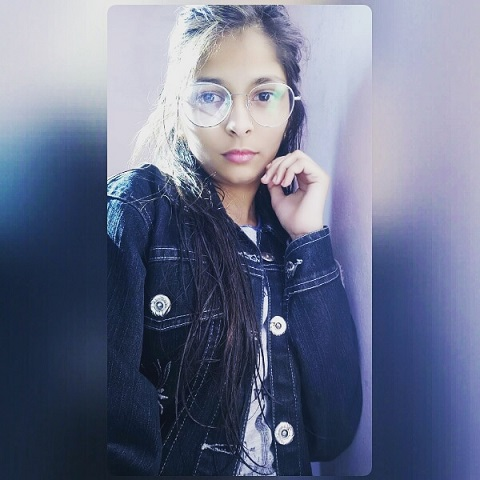
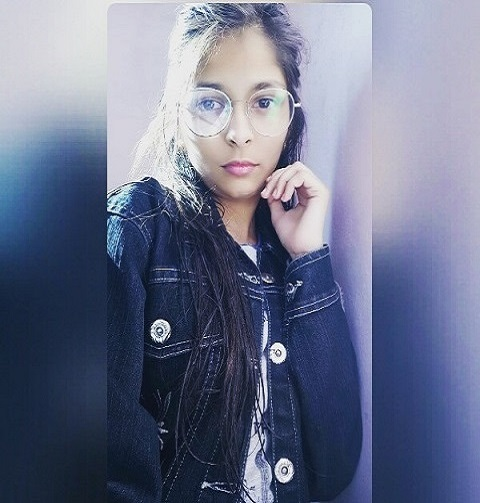
completed first page

diff --git a/my-portfolio/src/components/Hero.js b/my-portfolio/src/components/Hero.js
@@ -4,13 +4,22 @@ import ayu1 from './hero1.jpeg';
 import ayu2 from './hero2.jpg'
 
 const Hero = () => {
-  let app = useRef(null);
-  let images = useRef(null);
-  let tl = new TimelineLite()
+  let app = useRef(null)
+  let images = useRef(null)
+  let content = useRef(null)
+  let tl = new TimelineLite({ delay: .8});
 
   useEffect(() => {
     const img1 = images.firstElementChild;
     const img2 = images.lastElementChild;
+    
+
+    const headlinef = content.children[0].children[0];
+    const headlines = headlinef.nextSibling;
+    // const headlinet = headlines.nextSibling;
+    const contentp = content.children[1];
+    const contentb = content.children[2];
+    // const contentp = content.children[1];
 
 
 
@@ -19,13 +28,24 @@ const Hero = () => {
     // console.log(app);
     // console.log(ayu1,ayu2);
 
-    tl.from(img1, 1.2, {y: 1280, ease: Power3.easeOut})
+    tl.from(img1, 1.2, {y: 1280, ease: Power3.easeOut}, 'Start')
     .from(img1.firstElementChild, 2, {scale: 1.6, ease: Power3.easeOut}, .2)
-    .from(img2, 1.2, {y: 1280, ease: Power3.easeOut}, .2)
+    .from(img2, 1.4, {y: 1280, ease: Power3.easeOut}, .2)
     .from(img2.firstElementChild, 2, {scale: 1.6, ease: Power3.easeOut}, .2)
+
+    //content
+
+    tl.staggerFrom([headlinef.children, headlines.children], 1, {
+      y: 44,
+      ease: Power3.easeOut,
+      delay: .8,
+    }, .15, 'Start')
+
+    .from(contentp, 1, {y: 20, opacity: 0, ease: Power3.easeOut}, 1.4)
+    .from(contentb, 1, {y:20, opacity: 0, ease: Power3.easeOut}, 1.6)
    
 
-  })
+  }, [tl])
     return (
         <div>
             <div className="hero" ref={el => app = el}>
@@ -33,7 +53,7 @@ const Hero = () => {
      <div className="container">
        <div className="hero-inner">
          <div className="hero-content">
-           <div className="hero-content-inner">
+           <div className="hero-content-inner" ref={el => content = el}>
              <h1>
                <div className="hero-content-line">
                  <div className="hero-content-line-inner">
@@ -45,10 +65,6 @@ const Hero = () => {
                  <div className="hero-content-line-inner-2">
                     Web Developer
                  </div>
-
-               
-               
-
                </div>
              </h1>
              <p>
@@ -66,7 +82,7 @@ with Webflow.            </p>
 
          </div>
          <div className="hero-images">
-          <div className="hero-images-inner" ref={el => images = el}>
+          <div ref={el => images = el} className="hero-images-inner">
             
             <div className="hero-image ayu1">
               <img src={ayu1}></img>

diff --git a/my-portfolio/src/App.scss b/my-portfolio/src/App.scss
@@ -9,6 +9,7 @@
     box-sizing: border-box;
     font-family: 'Pacifico', sans-serif;
     font-weight: 300;
+    // background-color: #e9e5e5;
 
 }
 .hero {
@@ -30,8 +31,12 @@
         height: 100vh;
         .hero-content{
             width: 50%;
+            
             .hero-content-inner{
+                
                 width: 480px;
+                
+
                 margin: 0 auto;
                 color: #323232;
                 .h1{
@@ -50,11 +55,12 @@
                     height: 44px;
                     font-size: 22px;
                     font-weight: 200;
-                    // overflow: hidden;
+                    overflow: hidden;
                     margin-bottom: 24px;
                     // margin-left: 10px;
                 }
                 p{
+                    margin-top: 50px;
                     font-size: 14px;
                     line-height: 24px;
                     font-weight: 300;
@@ -74,7 +80,7 @@
                         left: -50px;
                     }
                     .button{
-                        height: 32px;
+                        height: 36px;
                         background: none;
                         border: none;
                         font-size: 17px;
@@ -102,6 +108,7 @@
                         background:linear-gradient(#e7e5e5,#909090);
                         border: none;
                         font-size: 17px;
+                        transition: height 2s, transform 2s;
                         padding: 2px 7px;
                         cursor: pointer;
                         font-style:oblique;
@@ -145,6 +152,8 @@
                                     margin-top: 50px;
                                     border: 1px solid white;
                                     // border-radius: 10%;
+                                    border-radius: 10%;
+                        box-shadow: 8px 8px 8px rgb(87, 85, 85);
                     }
                     &.ayu2{
                                     bottom: 24px;
@@ -154,6 +163,8 @@
                                     width: 40%;
                                     height: 55%;
                                     margin-left: -100px;
+                                    border-radius: 10%;
+                        box-shadow: 8px 8px 8px rgb(87, 85, 85);
 
                     }
                     img{
@@ -163,6 +174,7 @@
                         left: 0;
                         bottom: 0;
                         width: 100%;
+                        
 
                     }
                 }
